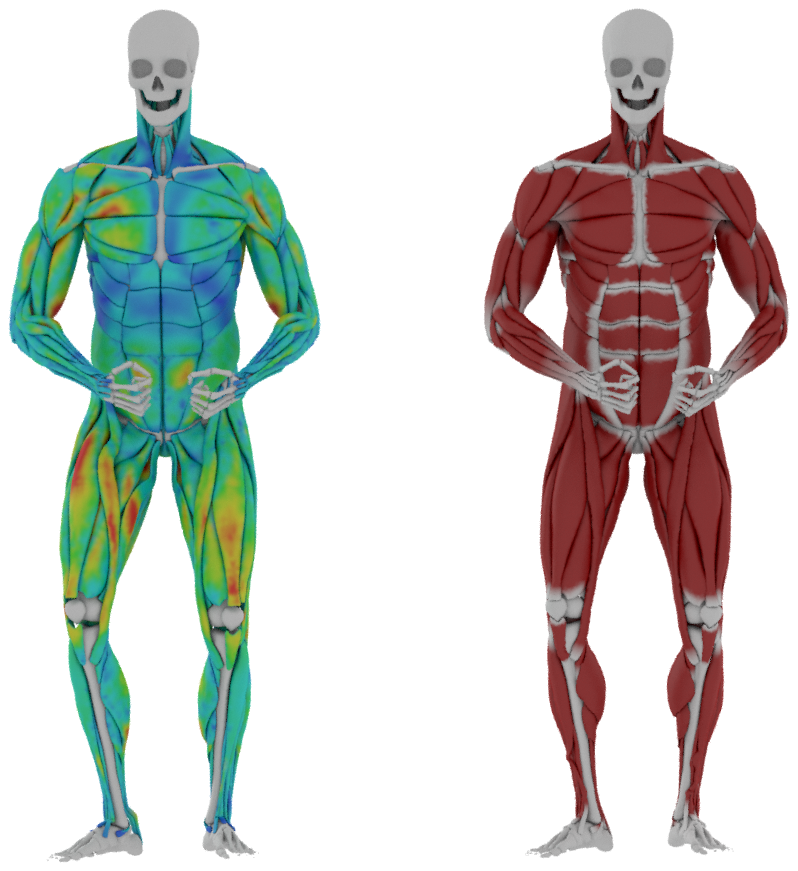
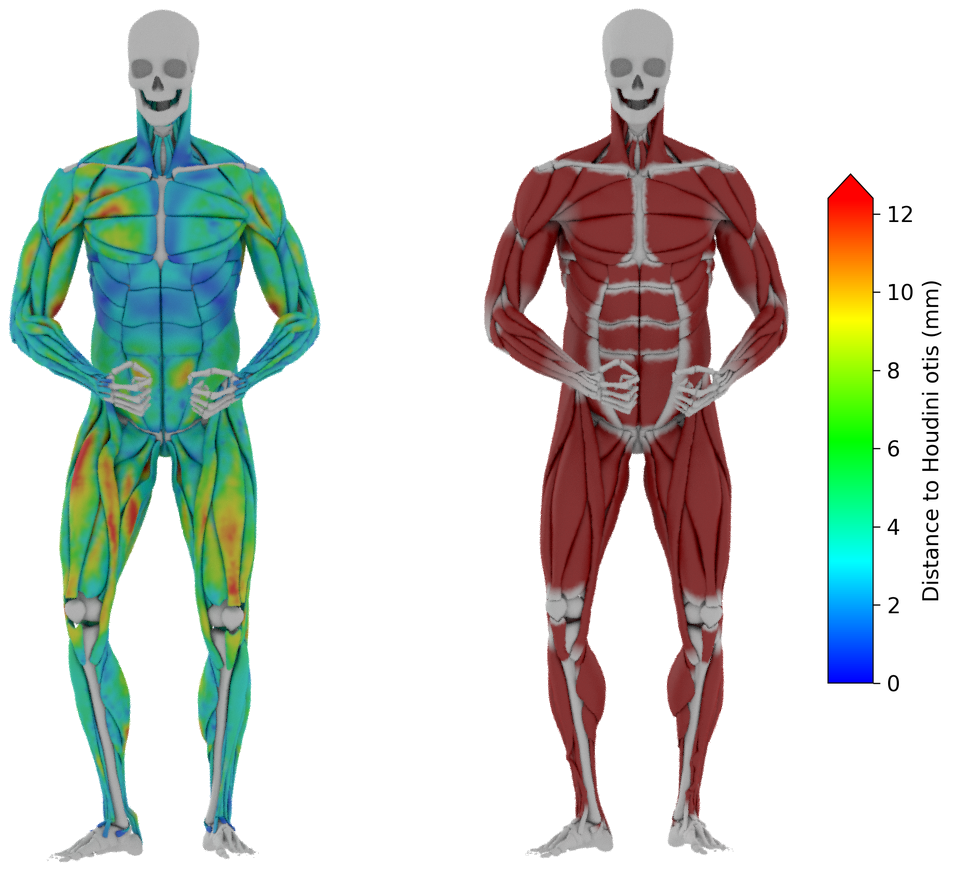
page: add colorbar to Otis figure, add Epic comparison
Composite imgs/vs-otis-colorbar_v.png onto the Otis figure at the same 63%
height and centered position the paper uses. Add the Han et al. (Epic)
comparison from imgs/baseline-epic.png, black letterbox bars trimmed.

diff --git a/index.html b/index.html
@@ -328,6 +328,19 @@
   <section class="hero is-small is-light">
     <div class="hero-body">
       <div class="container is-max-desktop">
+        <h2 class="title is-3 has-text-centered">Comparison against Epic's Neural Musculoskeletal Model</h2>
+        <img src="static/images/vs-epic.png" alt="Comparison against the neural musculoskeletal model of Han et al." style="width:100%;"/>
+        <h2 class="subtitle has-text-centered" style="margin-top:1rem;">
+          Comparison against the neural musculoskeletal model of Han et al. (Epic) on the same pose.
+          <em>Left:</em> our result, colored by per-vertex distance to their reference (<em>right</em>).
+        </h2>
+      </div>
+    </div>
+  </section>
+
+  <section class="hero is-small">
+    <div class="hero-body">
+      <div class="container is-max-desktop">
         <h2 class="title is-3 has-text-centered">Multigrid</h2>
         <img src="static/images/multigrid.png" alt="Full-body volumetric muscle with and without multigrid" style="width:100%;"/>
         <img src="static/images/multigrid-converge.png" alt="Constraint residual and inverted-tetrahedron count" style="width:100%; margin-top:0.75rem;"/>
@@ -339,7 +352,7 @@
     </div>
   </section>
 
-  <section class="hero is-small">
+  <section class="hero is-small is-light">
     <div class="hero-body">
       <div class="container is-max-desktop">
         <h2 class="title is-3 has-text-centered">Squashed-Bunny Benchmark</h2>
@@ -354,7 +367,7 @@
     </div>
   </section>
 
-  <section class="hero is-small is-light">
+  <section class="hero is-small">
     <div class="hero-body">
       <div class="container is-max-desktop">
         <h2 class="title is-3 has-text-centered">Muscle&ndash;Bone Collision</h2>
